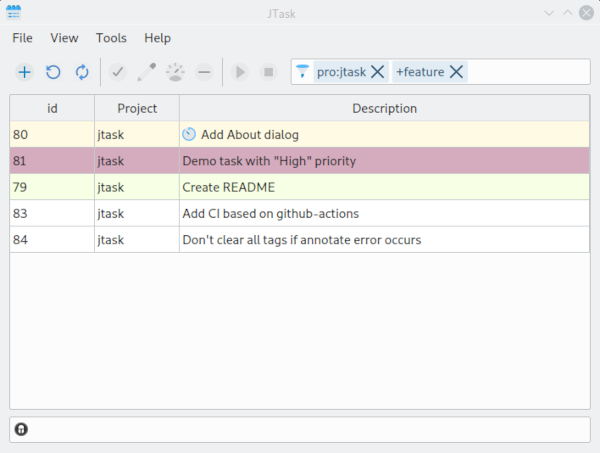
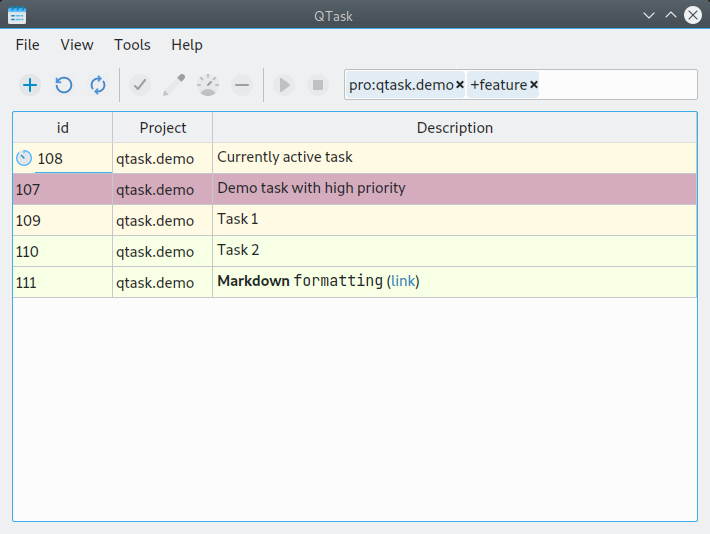
Rename {j,q}task; change license; update screenshot

diff --git a/src/aboutdialog.cpp b/src/aboutdialog.cpp
@@ -20,24 +20,24 @@ void AboutDialog::initUI(const QVariant &task_version)
     setWindowTitle(QCoreApplication::applicationName() + " - About");
 
     const QString version = QString("%1.%2.%3")
-                                .arg(QString::number(JTASK_VERSION_MAJOR),
-                                     QString::number(JTASK_VERSION_MINOR),
-                                     QString::number(JTASK_VERSION_PATCH));
+                                .arg(QString::number(QTASK_VERSION_MAJOR),
+                                     QString::number(QTASK_VERSION_MINOR),
+                                     QString::number(QTASK_VERSION_PATCH));
 
     const QString info =
         QString("<html><style>a { color: blue; text-decoration: none; "
                 "}</style><body>"
                 "<CENTER>"
-                "<BR><IMG SRC=\":/icons/jtask.svg\">"
+                "<BR><IMG SRC=\":/icons/qtask.svg\">"
                 "<P> Version <B>%1</B><BR>"
-                "JTask is an open-source organizer based on Taskwarrior.<BR>"
+                "QTask is an open-source organizer based on Taskwarrior.<BR>"
                 "<P> Components: Qt-%2,%3 <a "
                 "href=\"https://smashicons.com/app/c/24px-icons/essentials_1/"
                 "list/soft_outline\">Essential Icon Pack</a><P>"
                 "<P><a "
                 "Website: "
-                "href=\"https://github.com/jubnzv/jtask\">https://github.com/"
-                "jubnzv/jtask</a><P>"
+                "href=\"https://github.com/jubnzv/qtask\">https://github.com/"
+                "jubnzv/qtask</a><P>"
                 "<a E-mail: "
                 "href=\"mailto:jubnzv@gmail.com\">jubnzv@gmail.com</a><P>"
                 "</P>"

diff --git a/src/configmanager.cpp b/src/configmanager.cpp
@@ -38,8 +38,8 @@ bool ConfigManager::initializeFromFile()
     foreach (auto const &p, QStandardPaths::standardLocations(
                                 QStandardPaths::ConfigLocation)) {
         QDir d(p);
-        if (d.exists(".jtask")) {
-            existsting_dir = QString("%1%2jtask").arg(p, QDir::separator());
+        if (d.exists("qtask")) {
+            existsting_dir = QString("%1%2qtask").arg(p, QDir::separator());
             break;
         }
     }
@@ -49,8 +49,8 @@ bool ConfigManager::initializeFromFile()
         foreach (auto const &p, QStandardPaths::standardLocations(
                                     QStandardPaths::ConfigLocation)) {
             QDir d(p);
-            if (d.mkdir("jtask")) {
-                existsting_dir = QString("%1%2jtask").arg(p, QDir::separator());
+            if (d.mkdir("qtask")) {
+                existsting_dir = QString("%1%2qtask").arg(p, QDir::separator());
                 break;
             }
         }
@@ -61,8 +61,8 @@ bool ConfigManager::initializeFromFile()
     }
 
     QDir config_dir(existsting_dir.toString());
-    m_config_path = config_dir.absoluteFilePath("jtask.ini");
-    if (!config_dir.exists("jtask.ini")) {
+    m_config_path = config_dir.absoluteFilePath("qtask.ini");
+    if (!config_dir.exists("qtask.ini")) {
         if (!createNewConfigFile())
             return false;
         m_is_new = true;

diff --git a/src/main.cpp b/src/main.cpp
@@ -14,7 +14,7 @@ int main(int argc, char *argv[])
     SingleApplication app(argc, argv, /*allowSecondary=*/false,
                           SingleApplication::Mode::User |
                               SingleApplication::Mode::SecondaryNotification);
-    app.setApplicationName("JTask");
+    app.setApplicationName("QTask");
 
     if (!ConfigManager::config()->initializeFromFile()) {
         QMessageBox::warning(
@@ -30,7 +30,7 @@ int main(int argc, char *argv[])
     // If this is a secondary instance
     if (app.isSecondary()) {
         app.sendMessage(app.arguments().join(' ').toUtf8());
-        qDebug() << "JTask already running.";
+        qDebug() << "QTask already running.";
         qDebug() << "Primary instance PID: " << app.primaryPid();
         qDebug() << "Primary instance user: " << app.primaryUser();
         return EXIT_SUCCESS;

diff --git a/src/settingsdialog.cpp b/src/settingsdialog.cpp
@@ -25,7 +25,7 @@ void SettingsDialog::initUI()
     main_layout->setContentsMargins(5, 5, 5, 5);
 
     setWindowTitle(QCoreApplication::applicationName() + " - Settings");
-    setWindowIcon(QIcon(":/icons/jtask.svg"));
+    setWindowIcon(QIcon(":/icons/qtask.svg"));
 
     QLabel *task_bin_label = new QLabel("task executable:");
     main_layout->addWidget(task_bin_label, 0, 0);

diff --git a/src/recurringdialog.cpp b/src/recurringdialog.cpp
@@ -20,7 +20,7 @@ RecurringDialog::~RecurringDialog() {}
 
 void RecurringDialog::initUI(const QList<RecurringTask> &tasks)
 {
-    setWindowIcon(QIcon(":/icons/jtask.svg"));
+    setWindowIcon(QIcon(":/icons/qtask.svg"));
 
     m_tasks_view = new QTableView(this);
     m_tasks_view->setShowGrid(true);

diff --git a/src/taskdialog.cpp b/src/taskdialog.cpp
@@ -62,7 +62,7 @@ void TaskDialog::keyPressEvent(QKeyEvent *event)
 
 void TaskDialog::initUI()
 {
-    setWindowIcon(QIcon(":/icons/jtask.svg"));
+    setWindowIcon(QIcon(":/icons/qtask.svg"));
 
     QLabel *description_label = new QLabel("Description:");
     m_task_description = new QTextEdit();

diff --git a/src/trayicon.cpp b/src/trayicon.cpp
@@ -28,6 +28,6 @@ SystemTrayIcon::SystemTrayIcon(QObject *parent)
             &SystemTrayIcon::exitRequested);
 
     setContextMenu(tray_icon_menu_);
-    setIcon(QIcon(":/icons/jtask.svg"));
-    setToolTip("JTask");
+    setIcon(QIcon(":/icons/qtask.svg"));
+    setToolTip("QTask");
 }

diff --git a/src/mainwindow.cpp b/src/mainwindow.cpp
@@ -87,7 +87,7 @@ bool MainWindow::initTaskWatcher()
 
 void MainWindow::initMainWindow()
 {
-    setWindowIcon(QIcon(":/icons/jtask.svg"));
+    setWindowIcon(QIcon(":/icons/qtask.svg"));
     setWindowTitle(QCoreApplication::applicationName());
     setMinimumSize(400, 500);
 

diff --git a/README.md b/README.md
@@ -1,8 +1,8 @@
-# JTask
+# QTask
 
- [![License: MIT](https://img.shields.io/badge/License-MIT-yellow.svg)](https://opensource.org/licenses/MIT)
+ [![License: GPL-3.0](https://img.shields.io/badge/License-GPL3-blue.svg)](https://opensource.org/licenses/GPL-3.0)
 
-JTask is an open-source Qt-based graphical user interface for managing tasks. It is based on [Taskwarrior](https://taskwarrior.org/), a popular command-line organizer.
+QTask is an open-source Qt-based graphical user interface for managing tasks. It is based on [Taskwarrior](https://taskwarrior.org/), a popular command-line organizer.
 
 ## Features
 
@@ -18,7 +18,7 @@ You may find the following features of this utility useful:
 * Access to Taskwarrior CLI commands via the built-in shell;
 * This utility monitors changes in the database in the background. Therefore, you will always see new tasks as they arrive. This is useful if you are using the Taskwarrior CLI or scripts like [bugwarrior](https://github.com/ralphbean/bugwarrior) at the same time.
 
-If you have any ideas on how to improve this utility, feel free to create an [issue](https://github.com/jubnzv/jtask/issues) or open a [PR](https://github.com/jubnzv/jtask/pulls).
+If you have any ideas on how to improve this utility, feel free to create an [issue](https://github.com/jubnzv/qtask/issues) or open a [PR](https://github.com/jubnzv/qtask/pulls).
 
 ## Building
 
@@ -41,4 +41,4 @@ make install
 
 ## License
 
-MIT
+GPL-3.0
